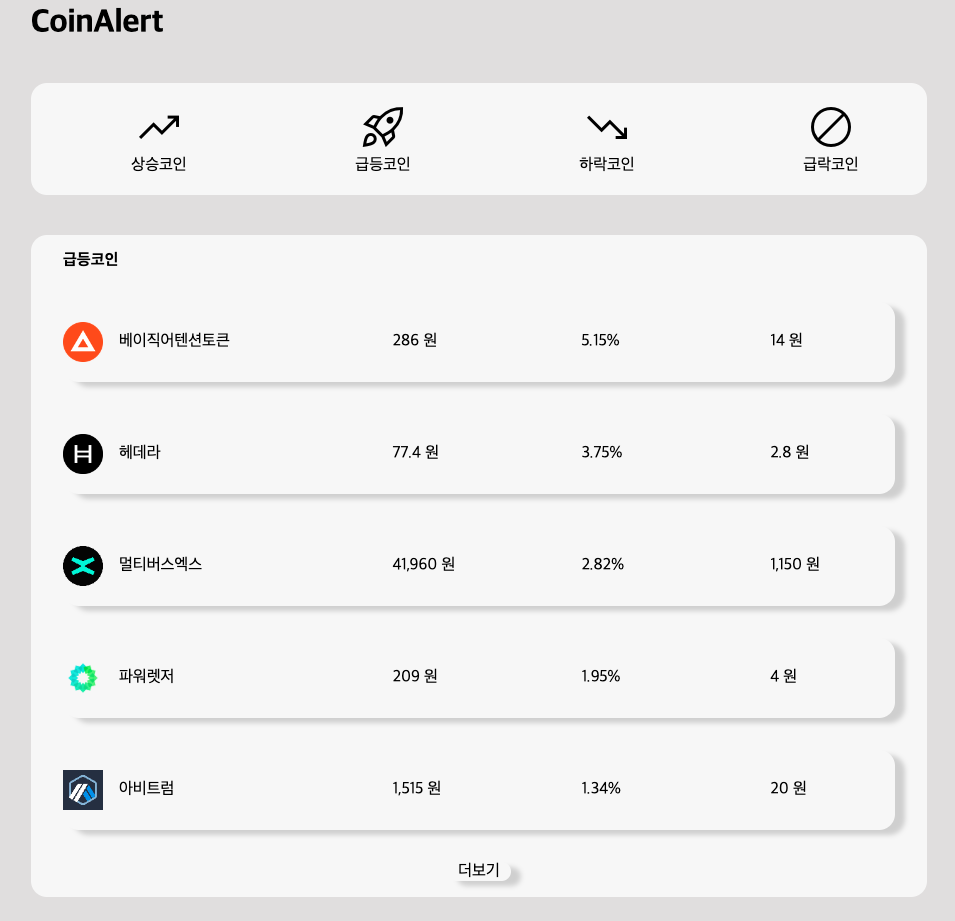
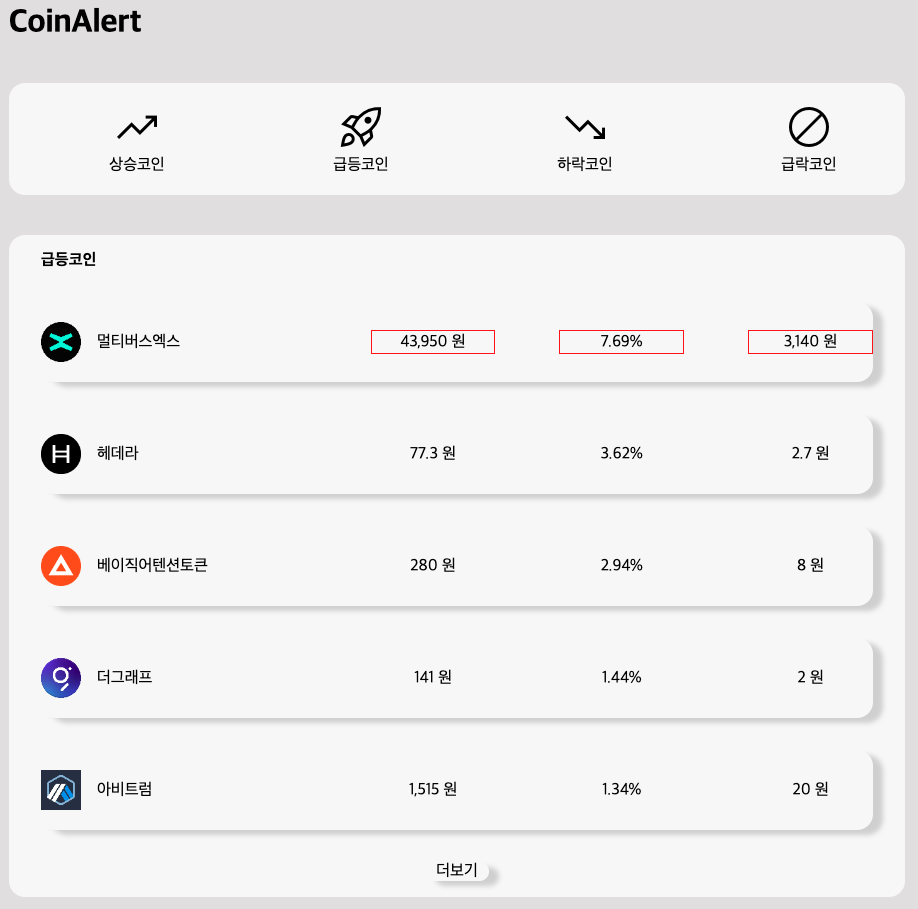
실시간 가격변동시(상승,하락) 가격 비율 데이터에 색깔 border 애니메이션 추가

diff --git a/app/ranking/ranking.tsx b/app/ranking/ranking.tsx
@@ -37,6 +37,7 @@ const RankingDiv = styled.div`
   margin-bottom: 2rem;
   display: flex;
   justify-content: space-between;
+  align-items: center;
   height: 5rem;
   border-radius: 1rem;
   box-shadow: 10px 5px 5px #d5d5d5;
@@ -45,6 +46,7 @@ const NameIconDiv = styled.div`
   display: flex;
   width: 30%;
   margin-right: 1rem;
+  align-items: center;
 `;
 const CoinImg = styled.img`
   width: 2.5rem;
@@ -52,12 +54,34 @@ const CoinImg = styled.img`
   margin-right: 1rem;
   object-fit: contain;
 `;
-const CoinName = styled.div`
-  line-height: 5rem;
-`;
-const DataDiv = styled.div`
+const CoinName = styled.div``;
+const DataDiv = styled.div<{ $change?: string }>`
+  padding: 0;
   width: 15%;
-  line-height: 5rem;
+  height: 30%;
+  display: flex;
+  align-items: center;
+  justify-content: center;
+  animation-name: ${(props) => (props.$change === "none" ? "" : "change")};
+  animation-timing-function: ease;
+  animation-duration: 1s;
+  @keyframes change {
+    0% {
+    }
+    50% {
+      border-style: solid;
+      border-width: thin;
+      border-color: ${(props) =>
+        props.$change === "up"
+          ? "red"
+          : props.$change === "down"
+          ? "blue"
+          : "none"};
+    }
+    100% {
+      border-style: none;
+    }
+  }
 `;
 export const Ranking = () => {
   const [wsrankingList, setWsRankingList] = useState<CoinRanking[]>([]);
@@ -77,6 +101,7 @@ export const Ranking = () => {
     useClient.onConnect = () => {
       useClient?.subscribe("/coinview/getSoarCoin", (message) => {
         const wsdata: CoinRanking = JSON.parse(message.body);
+        wsdata.change = "none";
         setNewdata(wsdata);
       });
       useClient?.publish({
@@ -98,8 +123,19 @@ export const Ranking = () => {
 
     if (newdata !== undefined && newdata !== null) {
       if (index === -1) newwsrankingList.push(newdata);
-      else newwsrankingList[index] = newdata;
-
+      else {
+        if (
+          newwsrankingList[index].signed_change_price >
+          newdata.signed_change_price
+        )
+          newdata.change = "up";
+        else if (
+          newwsrankingList[index].signed_change_price <
+          newdata.signed_change_price
+        )
+          newdata.change = "down";
+        newwsrankingList[index] = newdata;
+      }
       newwsrankingList = newwsrankingList.filter(
         (ele) => ele.signed_change_rate > 0.01
       );
@@ -126,9 +162,15 @@ export const Ranking = () => {
                       <CoinImg src={ele.logo}></CoinImg>
                       <CoinName>{ele.korean_name}</CoinName>
                     </NameIconDiv>
-                    <DataDiv>{makewon(ele.trade_price)}</DataDiv>
-                    <DataDiv>{makepercent(ele.signed_change_rate)}</DataDiv>
-                    <DataDiv>{makewon(ele.signed_change_price)}</DataDiv>
+                    <DataDiv $change={ele.change}>
+                      {makewon(ele.trade_price)}
+                    </DataDiv>
+                    <DataDiv $change={ele.change}>
+                      {makepercent(ele.signed_change_rate)}
+                    </DataDiv>
+                    <DataDiv $change={ele.change}>
+                      {makewon(ele.signed_change_price)}
+                    </DataDiv>
                   </RankingDiv>
                 </RankingLi>
               );

diff --git a/interfaces/CoinRanking.ts b/interfaces/CoinRanking.ts
@@ -11,4 +11,5 @@ interface CoinRanking {
   name: string;
   slug: string;
   symbol: string;
+  change: string; //up down none;
 }
